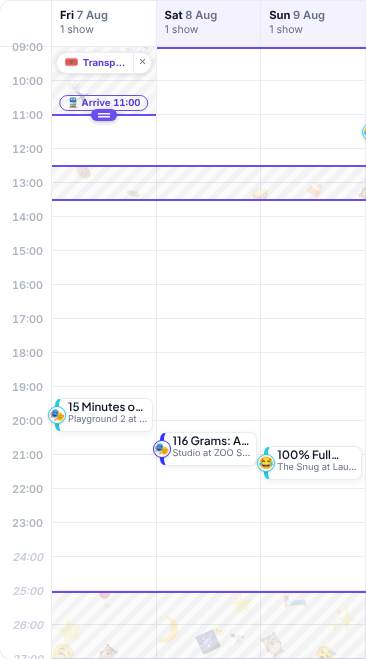
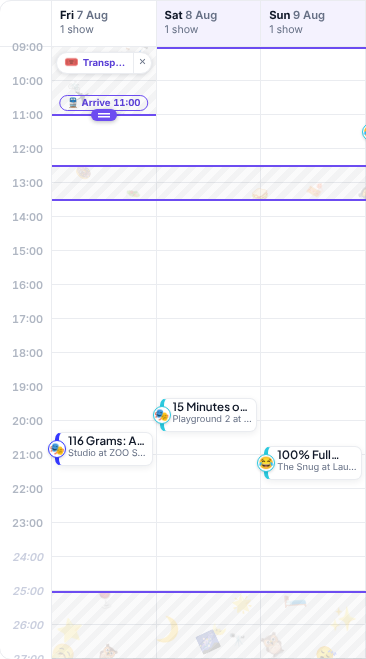
Spread a capped day's shows across its hours on /plan
The Edinburgh planner packed its favourites earliest finish first, so a
two-a-day plan filled each day from the morning. Under a per-day cap it
now cuts each day's hours into one part per place and fills empty parts
before any takes a second show; the show with the fewest performances
left ranks first, earliest finish ordering only equally scarce shows. An
early day end still bounds the day. Uncapped plans are unchanged.

The part-of-day split and the run-by-run spread sweep move from the
festival planner's drafter into the shared engine, and both pages now
use the one copy.

New leaf 14.11 with its logic case; 14.7 notes the spread. Five /plan
goldens re-rendered (9.4, 10.1.1, 10.1.2, 10.5, 15.2).

Claude-Session: https://claude.ai/code/session_015XUD9vNqaP44AxKduWjBtQ

Changed region(s): [[0.1202, 0.607, 0.3907, 0.7284], [0.4208, 0.607, 0.6612, 0.698]]

diff --git a/site/plan/lib/engine.js b/site/plan/lib/engine.js
@@ -424,6 +424,54 @@ export function compatible(a, b, options = {}) {
   return later.start >= earlier.end + requiredGapMinutes(earlier, later, options);
 }
 
+// --- spreading a capped day ------------------------------------------------
+
+/**
+ * Which part of its day a slot starts in, when a day is held to `maxPerDay`
+ * shows: the hours the slots' starts span that day are cut into one part per
+ * place. Left to the clock alone, a short day would fill from the morning.
+ * @param {Iterable<Slot>} slots every slot the day could take
+ * @param {number} maxPerDay
+ * @returns {((slot: Slot) => number)|null} null when the day is uncapped
+ */
+export function dayParts(slots, maxPerDay) {
+  if (!Number.isFinite(maxPerDay) || maxPerDay <= 0) return null;
+  const spans = new Map();
+  for (const s of slots) {
+    const span = spans.get(s.date);
+    if (!span) spans.set(s.date, { first: s.startMinuteOfDay, last: s.startMinuteOfDay });
+    else {
+      span.first = Math.min(span.first, s.startMinuteOfDay);
+      span.last = Math.max(span.last, s.startMinuteOfDay);
+    }
+  }
+  return (slot) => {
+    const span = spans.get(slot.date);
+    if (!span) return 0;
+    const part = Math.floor(((slot.startMinuteOfDay - span.first) * maxPerDay) / (span.last - span.first + 1));
+    return Math.max(0, Math.min(maxPerDay - 1, part));
+  };
+}
+
+/**
+ * Takes candidates ranked scarcest first a run of equal `freedom` at a time,
+ * each run twice: first only into the parts of a day nothing holds yet, then
+ * into whatever room is left — so the spread never leaves a day short and never
+ * outranks scarcity.
+ * @param {Array<{freedom: number}>} list ranked candidates
+ * @param {(run: object[], spread: boolean) => void} take
+ */
+export function takeSpread(list, take) {
+  for (let i = 0; i < list.length; ) {
+    let j = i;
+    while (j < list.length && list[j].freedom === list[i].freedom) j++;
+    const run = list.slice(i, j);
+    take(run, true);
+    take(run, false);
+    i = j;
+  }
+}
+
 // --- building an itinerary from the eligible slots ------------------------
 
 /**
@@ -438,6 +486,9 @@ export function compatible(a, b, options = {}) {
  * skipped (one-per-show), and a candidate is dropped if its day is already at
  * the per-day cap. Ties break deterministically (earliest start, then slug),
  * so the same inputs always yield the same plan — no wall-clock/random state.
+ * Under a per-day cap, the scarcest shows rank first and each day's places are
+ * spread across its hours (`dayParts`, `takeSpread`); earliest finish then
+ * orders only shows equally scarce.
  *
  * `forcedSlugs` are must-see shows placed in a first pass before the greedy
  * fill: each takes its earliest-finishing performance that doesn't clash with
@@ -591,25 +642,35 @@ export function buildSchedule(shows, options = {}) {
   }
 
   // --- Pass 2: greedy earliest-finish for everything else ------------------
+  // A capped day is spread across its hours (dayParts), and then the show with
+  // the fewest performances left to it ranks first, so the spread never takes
+  // a scarce show's only hour from it.
+  const partOf = dayParts([...slotsByShow.values()].flat(), maxPerDay);
   const candidates = [];
   for (const [slug, slots] of slotsByShow) {
     if (forcedSlugs.has(slug)) continue; // handled in pass 1
-    for (const slot of slots) candidates.push(slot);
+    for (const slot of slots) candidates.push({ slot, freedom: partOf ? slots.length : 0 });
   }
   candidates.sort(
     (a, b) =>
-      a.end - b.end ||
-      a.start - b.start ||
-      a.slug.localeCompare(b.slug) ||
-      a.date.localeCompare(b.date)
+      a.freedom - b.freedom ||
+      a.slot.end - b.slot.end ||
+      a.slot.start - b.slot.start ||
+      a.slot.slug.localeCompare(b.slot.slug) ||
+      a.slot.date.localeCompare(b.slot.date)
   );
-  for (const slot of candidates) {
-    if (placedShows.has(slot.slug)) continue; // one performance per show
-    const sameDay = perDay.get(slot.date) || [];
-    if (sameDay.length >= maxPerDay) continue; // day already full
-    if (!sameDay.every((c) => compatible(c, slot, gapOpts))) continue; // clash
-    place(slot, false);
-  }
+  const take = (list, spread) => {
+    for (const { slot } of list) {
+      if (placedShows.has(slot.slug)) continue; // one performance per show
+      const sameDay = perDay.get(slot.date) || [];
+      if (sameDay.length >= maxPerDay) continue; // day already full
+      if (spread && sameDay.some((c) => partOf(c) === partOf(slot))) continue;
+      if (!sameDay.every((c) => compatible(c, slot, gapOpts))) continue; // clash
+      place(slot, false);
+    }
+  };
+  if (partOf) takeSpread(candidates, take);
+  else take(candidates, false);
 
   // Post-pass: drop under-populated days (min-per-day preference), but never a
   // day that holds a forced show.

diff --git a/product/requirements/logic/cases/scheduler-rules.14.11.case.js b/product/requirements/logic/cases/scheduler-rules.14.11.case.js
@@ -1,0 +1,86 @@
+"use strict";
+
+// A list of favourites dense enough that earliest-finish packing alone would
+// fill a short day from the morning: a show every ninety minutes from 10:00 to
+// 22:00, every night of the window.
+const START_TIMES = ["10:00", "11:30", "13:00", "14:30", "16:00", "17:30", "19:00", "20:30", "22:00"];
+const NIGHTS = ["2026-08-15", "2026-08-16", "2026-08-17"];
+
+const show = (slug, nights, start) => ({
+  slug,
+  title: slug,
+  venue: "V1",
+  venueName: "Venue One",
+  duration: 60,
+  performances: nights.map((date) => ({ date, start, status: "TICKETS_AVAILABLE" })),
+});
+
+const toMin = (hhmm) => {
+  const [h, m] = hhmm.split(":").map(Number);
+  return h * 60 + m;
+};
+
+module.exports = {
+  description: "a day with room for few shows spreads them across its hours",
+  async verify(assert) {
+    const { buildSchedule } = await import("../../../../site/plan/lib/engine.js");
+    const favourites = [];
+    START_TIMES.forEach((start, i) => {
+      for (let n = 0; n < 4; n++) favourites.push(show(`s${i}-${n}`, NIGHTS, start));
+    });
+    const plan = (shows, extra = {}) =>
+      buildSchedule(shows, {
+        dateStart: NIGHTS[0],
+        dateEnd: NIGHTS[NIGHTS.length - 1],
+        dayStartMin: 9 * 60,
+        dayEndMin: 25 * 60,
+        minGapSameVenue: 0,
+        minGapDifferentVenue: 0,
+        ...extra,
+      });
+    const startsOn = (result, date) =>
+      (result.days.find((d) => d.date === date) || { slots: [] }).slots.map((s) => toMin(s.startTime));
+
+    // Two a day: one in each half of the shows' hours, not both before noon.
+    const two = plan(favourites, { maxPerDay: 2 });
+    for (const date of NIGHTS) {
+      const starts = startsOn(two, date);
+      assert.equal(starts.length, 2, `${date} still takes two shows`);
+      assert.ok(starts[0] < toMin("16:00") && starts[1] >= toMin("16:00"), `${date} spreads its two: ${starts}`);
+    }
+
+    // Three a day: one in each third.
+    const three = plan(favourites, { maxPerDay: 3 });
+    for (const date of NIGHTS) {
+      const starts = startsOn(three, date);
+      assert.equal(starts.length, 3, `${date} still takes three shows`);
+      const thirds = starts.map((m) => Math.min(2, Math.floor(((m - toMin("10:00")) * 3) / (toMin("22:00") - toMin("10:00") + 1))));
+      assert.deepEqual(thirds, [0, 1, 2], `${date} has one show in each third: ${starts}`);
+    }
+
+    // An early end is the reader's to set, and the spread works within it.
+    const early = plan(favourites, { maxPerDay: 2, dayEndMin: 15 * 60 + 30 });
+    for (const date of NIGHTS) {
+      const starts = startsOn(early, date);
+      assert.equal(starts.length, 2);
+      assert.ok(starts.every((m) => m + 60 <= 15 * 60 + 30), `${date} ends by the reader's day end: ${starts}`);
+    }
+
+    // Scarcity still comes first: two one-night shows in the same morning both
+    // take their hours, and the spread only chooses among the rest.
+    const rareA = show("rare-a", [NIGHTS[0]], "10:00");
+    const rareB = show("rare-b", [NIGHTS[0]], "11:30");
+    const withRare = plan([rareA, rareB, ...favourites], { maxPerDay: 3 });
+    const placed = new Map(withRare.scheduled.map((s) => [s.slug, `${s.date}T${s.startTime}`]));
+    assert.equal(placed.get("rare-a"), `${NIGHTS[0]}T10:00`);
+    assert.equal(placed.get("rare-b"), `${NIGHTS[0]}T11:30`);
+    const rest = startsOn(withRare, NIGHTS[0]).filter((m) => m > toMin("11:30"));
+    assert.equal(rest.length, 1, "the day's third show comes from the rest");
+    assert.ok(rest[0] >= toMin("14:00"), `and it goes to a part of the day nothing holds yet: ${rest}`);
+
+    // Favourites with only a morning still fill the day to its cap.
+    const morning = favourites.filter((s) => toMin(s.performances[0].start) < toMin("13:00"));
+    const onlyMorning = plan(morning, { maxPerDay: 2 });
+    for (const date of NIGHTS) assert.equal(startsOn(onlyMorning, date).length, 2);
+  },
+};

diff --git a/site/plan/lib/contention.js b/site/plan/lib/contention.js
@@ -15,7 +15,7 @@
 //
 // Pure. Same inputs, same draft, every time.
 
-import { compatible, eligibleSlots, normalizeMealBreaks, slotKey, withinDayWindow } from "./engine.js";
+import { compatible, dayParts, eligibleSlots, normalizeMealBreaks, slotKey, takeSpread, withinDayWindow } from "./engine.js";
 
 /**
  * Identity of one verdict against one performance: which show, which night.
@@ -196,31 +196,13 @@ export function draftCalendar(shows, options = {}) {
   for (const [slug, slots] of pool) freedom.set(slug, slots.length);
 
   // A day held to fewer shows than it could fit is shared out between its
-  // places: the hours the day's programme spans are cut into one part per
-  // place, each taken by one show before any takes a second. Left to the clock
-  // alone, a short day would fill from the morning.
-  const parts = Number.isFinite(maxPerDay) && maxPerDay > 0 ? maxPerDay : 0;
-  const spans = new Map();
-  for (const slots of pool.values()) {
-    for (const s of slots) {
-      const span = spans.get(s.date);
-      if (!span) spans.set(s.date, { first: s.startMinuteOfDay, last: s.startMinuteOfDay });
-      else {
-        span.first = Math.min(span.first, s.startMinuteOfDay);
-        span.last = Math.max(span.last, s.startMinuteOfDay);
-      }
-    }
-  }
-  const partOf = (slot) => {
-    if (!parts) return 0;
-    const { first, last } = spans.get(slot.date);
-    return Math.min(parts - 1, Math.floor(((slot.startMinuteOfDay - first) * parts) / (last - first + 1)));
-  };
+  // places, each part of its hours taken by one show before any takes a second.
+  const partOf = dayParts([...pool.values()].flat(), maxPerDay);
 
   const candidates = [];
   for (const [slug, slots] of pool) {
     for (const slot of slots) {
-      candidates.push({ ...slot, freedom: freedom.get(slug), part: partOf(slot), contenders: [], verdict: null });
+      candidates.push({ ...slot, freedom: freedom.get(slug), part: partOf ? partOf(slot) : 0, contenders: [], verdict: null });
     }
   }
   candidates.sort(byScarcity);
@@ -251,22 +233,13 @@ export function draftCalendar(shows, options = {}) {
   // it outranks the day you described. `tasteCap` is the limit on shows from
   // outside your kinds, which neither verdict is held to.
   //
-  // Each run of equally scarce candidates is taken twice: first only into the
-  // parts of a day nothing holds yet, then into whatever room is left, so the
-  // spread never leaves a day short and never outranks scarcity.
+  // A capped pass spreads each day across its hours (takeSpread).
   const sweep = (list, verdict, dayCap, tasteCap) => {
-    if (!dayCap || !parts) {
+    if (!dayCap || !partOf) {
       take(list, verdict, dayCap, tasteCap, false);
       return;
     }
-    for (let i = 0; i < list.length; ) {
-      let j = i;
-      while (j < list.length && list[j].freedom === list[i].freedom) j++;
-      const run = list.slice(i, j);
-      take(run, verdict, dayCap, tasteCap, true);
-      take(run, verdict, dayCap, tasteCap, false);
-      i = j;
-    }
+    takeSpread(list, (run, spread) => take(run, verdict, dayCap, tasteCap, spread));
   };
   const take = (list, verdict, dayCap, tasteCap, spread) => {
     for (const cand of list) {

diff --git a/product/requirements.md b/product/requirements.md
@@ -627,7 +627,7 @@ frozen fixture dataset ([requirements/shared/reference-now.js](requirements/shar
   🔧 _Logic leaf._ <!-- req-gallery:14.6 -->
   </details>
 
-- `14.7` Everything else is packed greedily, earliest finish first, with fully deterministic tie-breaks — the same inputs always give the same plan.
+- `14.7` Everything else is packed greedily, earliest finish first (within a capped day's spread, `14.11`), with fully deterministic tie-breaks — the same inputs always give the same plan.
 
   <details><summary>Proof</summary>
 
@@ -653,6 +653,26 @@ frozen fixture dataset ([requirements/shared/reference-now.js](requirements/shar
   <details><summary>Proof</summary>
 
   🔧 _Logic leaf._ <!-- req-gallery:14.10 -->
+  </details>
+
+- `14.11` A day held to fewer shows than it could fit spreads them across its hours, rather than packing the earliest.
+
+  <details><summary>Proof</summary>
+
+  🔧 _Logic leaf._ <!-- req-gallery:14.11 -->
+  </details>
+
+  <details><summary>Notes</summary>
+
+  The per-day maximum is a question of pace, not of when the day ends: a
+  reader who asks for two shows a day has not asked to be done by lunch. So
+  the hours the day's shows span are shared out between its places, and each
+  part of the day takes a show before any takes a second. Scarcity comes
+  first — a show with fewer performances left to it takes its hour whatever
+  part of the day it is in, and earliest finish orders only shows equally
+  scarce — and a reader who wants the day to end early says so with the day's
+  end, which the spread then works within. The same rule as the festival
+  planner's `20.22`, from the same shared code.
   </details>
 
 ## 15. Preferences and the schedule
